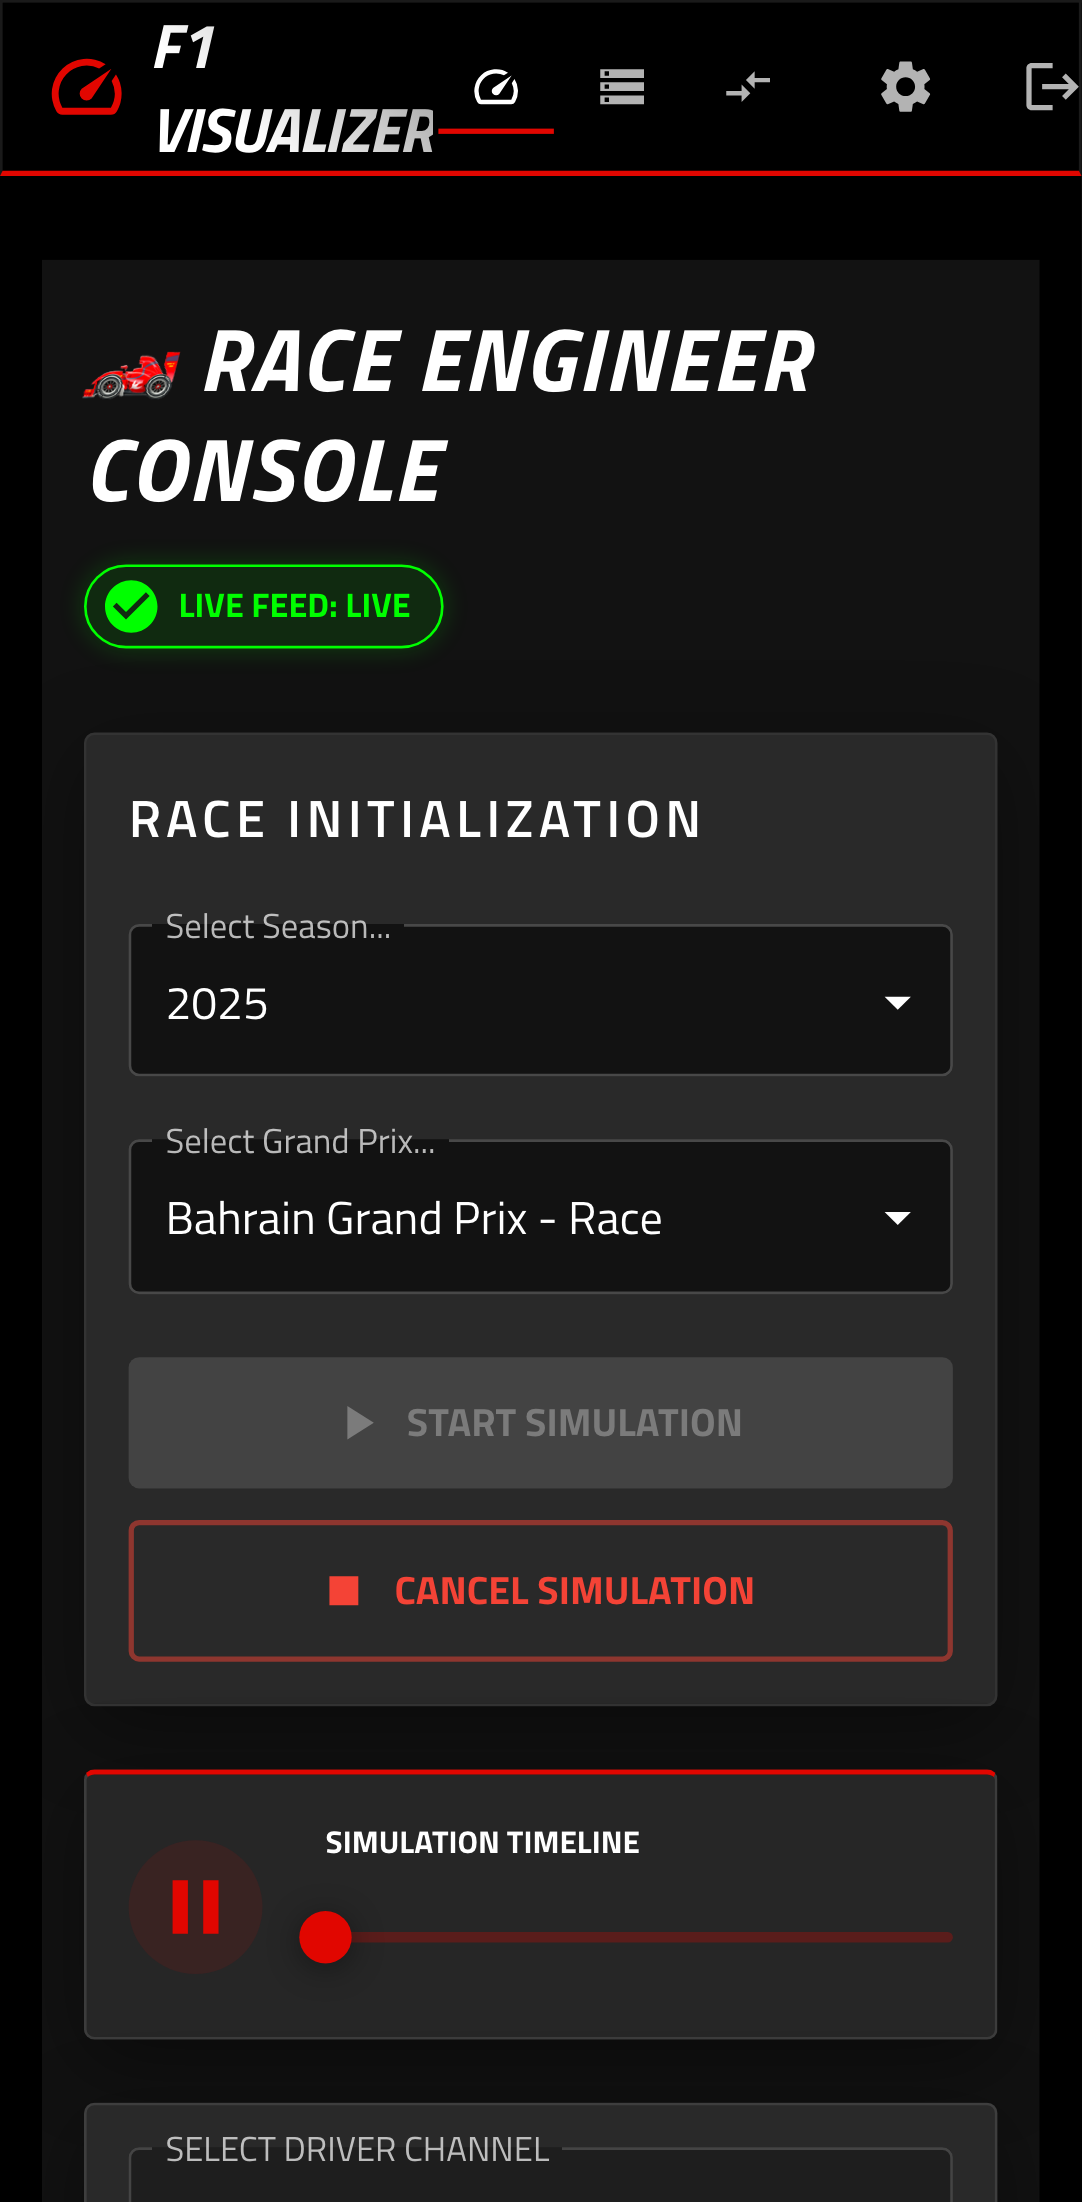
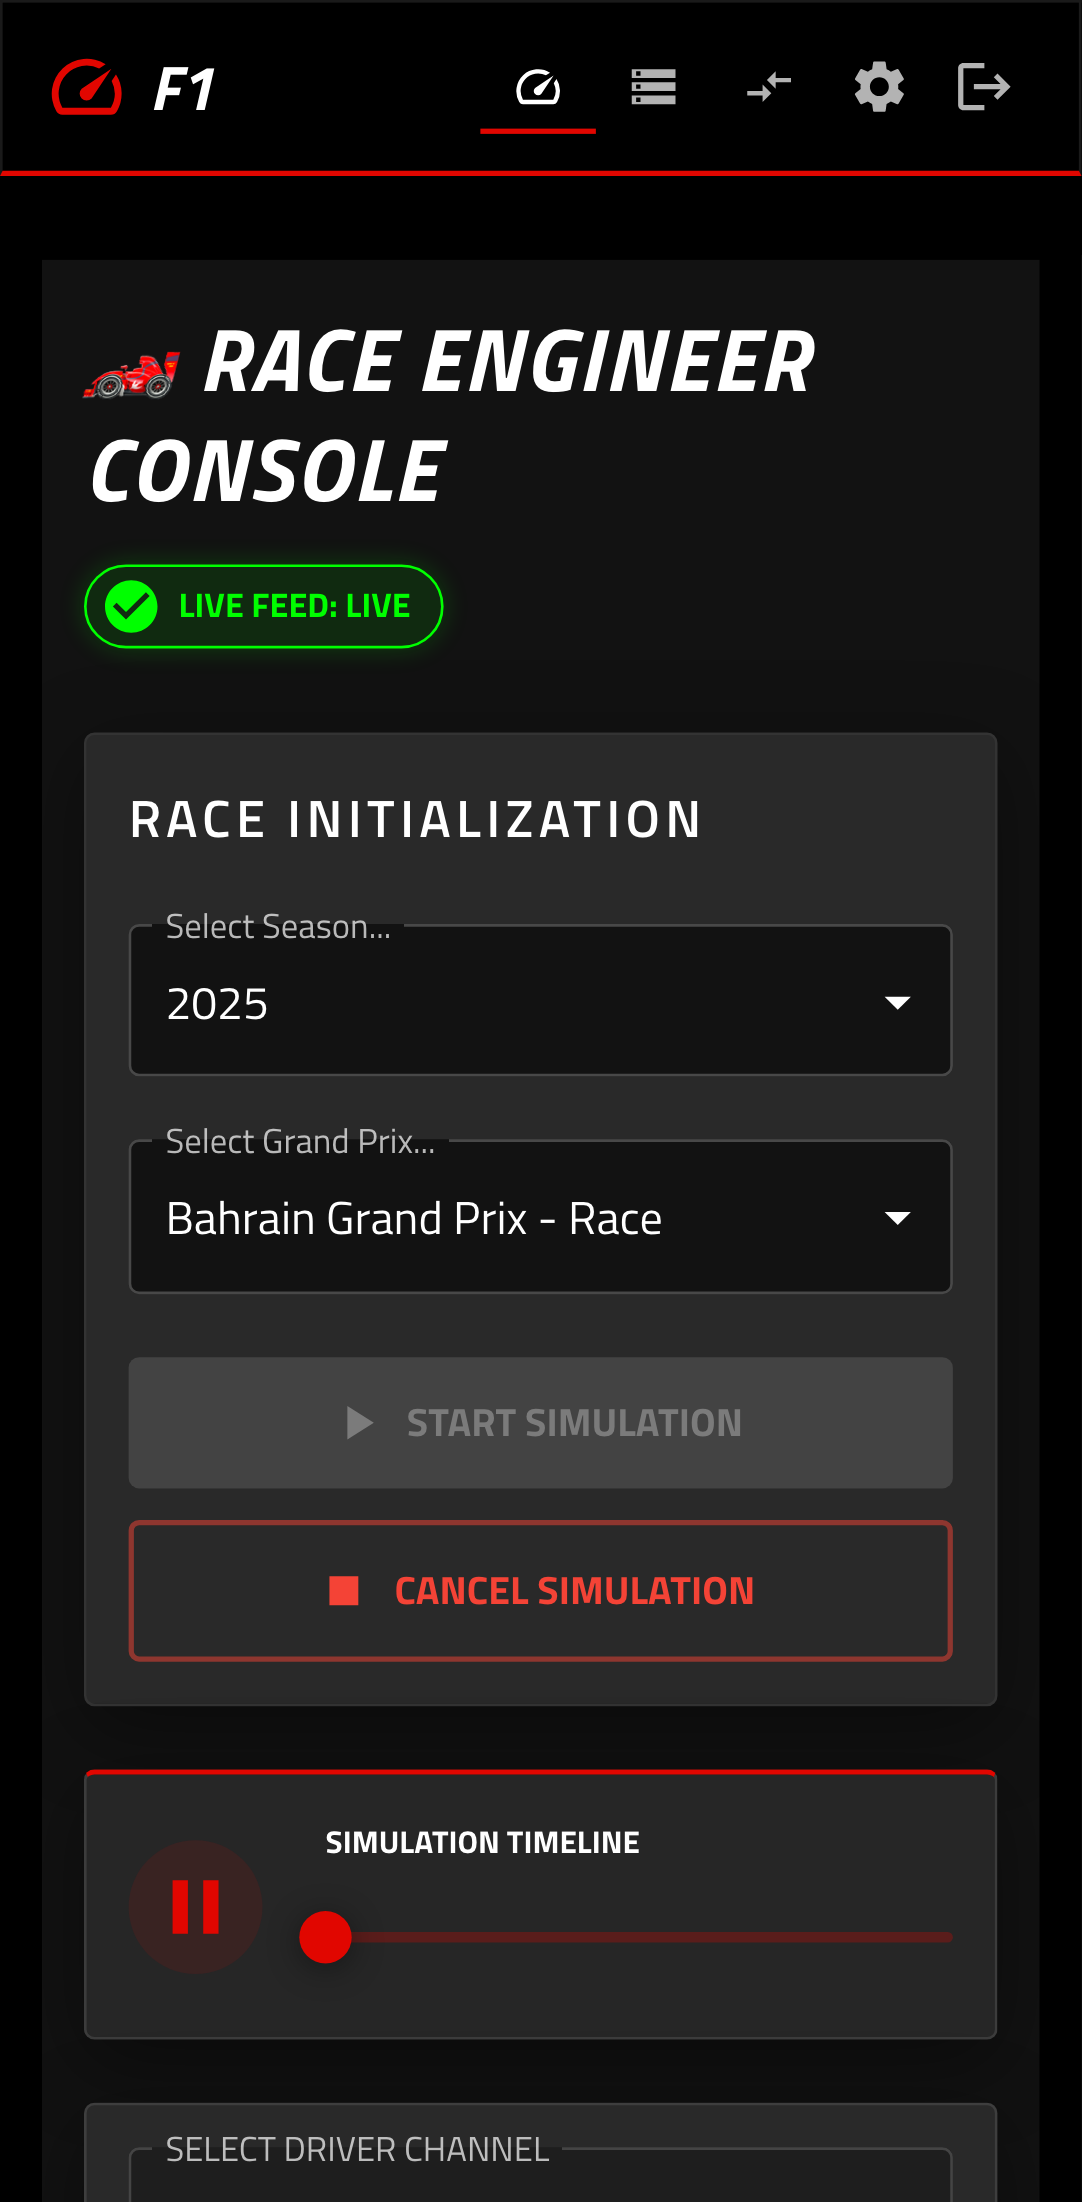
fix(frontend): keep the app bar on one line on phones
On a 412px Pixel 7 the bar holds the brand icon, three 44px nav targets
and two icon buttons with 16px margins, which left the wordmark 84px.
Its min-content width is the word VISUALIZER, so the flex item could not
shrink below that: F1 wrapped onto its own line above VISUALIZER, and the
toolbar still overflowed the container by about 85px, pushing the logout
button off the right edge. docs/screenshots/live-console-mobile.png
showed exactly that.

Below the sm breakpoint the brand is now the icon plus F1, with
VISUALIZER clipped away rather than removed - the pattern the nav labels
already used, now one helper for both - so assistive technology reads
F1 VISUALIZER at every width. The wordmark is nowrap so it can never
stack again, and below sm the nav and icon-button margins go to zero,
which is what makes the bar fit the 320px reflow width with the 44px
targets intact. From 600px up nothing changes.

Verified: the header at 320, 360, 375, 412, 599, 600, 900 and 1440px
through the e2e stubs - one line everywhere, no overflow, VISUALIZER
hidden below 600 and in flow from 600; lint, typecheck, the unit suite
and the e2e suite on both projects green, including axe on the
authenticated shell at the Pixel 7 viewport. The mobile screenshot is
recaptured with yarn screenshots.

diff --git a/frontend/src/components/layout/LayoutMain.tsx b/frontend/src/components/layout/LayoutMain.tsx
@@ -22,6 +22,25 @@ import { BRAND_RED } from '../../theme/tokens';
 import ErrorBoundary from '../ErrorBoundary';
 import RouteFallback from '../ui/RouteFallback';
 import UserSettingsModal from './UserSettingsModal';
+import type { Breakpoint, SxProps, Theme } from '@mui/material';
+
+/**
+ * Visually hidden below `from`, in flow at and above it.
+ *
+ * One element, hidden visually rather than removed, so the text is in the DOM
+ * and read by assistive technology at every width — rendering it twice, once
+ * per breakpoint, would have put two copies in the accessibility tree. Nowrap
+ * throughout: a 1px box must not reflow its text into a stack of lines, and
+ * nothing this wraps — a nav label, half of the wordmark — may wrap once shown.
+ */
+const visuallyHiddenBelow = (from: Breakpoint): SxProps<Theme> => ({
+    position: { xs: 'absolute', [from]: 'static' },
+    width: { xs: '1px', [from]: 'auto' },
+    height: { xs: '1px', [from]: 'auto' },
+    overflow: { xs: 'hidden', [from]: 'visible' },
+    clipPath: { xs: 'inset(50%)', [from]: 'none' },
+    whiteSpace: 'nowrap',
+});
 
 const LayoutMain: React.FC = () => {
     const location = useLocation();
@@ -89,11 +108,18 @@ const LayoutMain: React.FC = () => {
                 <Container maxWidth="xl">
                     <Toolbar disableGutters sx={{ height: 64 }}>
                         <SpeedIcon sx={{ mr: 1, color: 'primary.main', fontSize: 32 }} />
+                        {/* The bar has to hold the brand, three 44px nav targets
+                            and two icon buttons; on a 412px phone that left the
+                            wordmark 84px, so it wrapped "F1" above "VISUALIZER"
+                            and still pushed the logout button off the right edge.
+                            Below sm the brand is the icon plus "F1"; nowrap so it
+                            can never stack again. */}
                         <Typography
                             variant="h5"
                             component="div"
                             sx={{
                                 flexGrow: 1,
+                                whiteSpace: 'nowrap',
                                 fontWeight: 900,
                                 fontStyle: 'italic',
                                 letterSpacing: '-0.02em',
@@ -102,7 +128,11 @@ const LayoutMain: React.FC = () => {
                                 WebkitTextFillColor: 'transparent',
                             }}
                         >
-                            F1 VISUALIZER
+                            F1
+                            <Box component="span" sx={visuallyHiddenBelow('sm')}>
+                                {' '}
+                                VISUALIZER
+                            </Box>
                         </Typography>
 
                         {/* The links lived in generic elements, so there was no
@@ -136,7 +166,7 @@ const LayoutMain: React.FC = () => {
                                 onClick={() => setIsSettingsOpen(true)}
                                 aria-label="User preferences"
                                 sx={{
-                                    ml: 2,
+                                    ml: { xs: 0, sm: 2 },
                                     color: 'text.secondary',
                                     '&:hover': { color: 'primary.main' },
                                 }}
@@ -150,7 +180,7 @@ const LayoutMain: React.FC = () => {
                                 onClick={handleLogout}
                                 aria-label="Log out"
                                 sx={{
-                                    ml: 2,
+                                    ml: { xs: 0, sm: 2 },
                                     color: 'text.secondary',
                                     '&:hover': { color: 'error.main' },
                                 }}
@@ -239,7 +269,9 @@ const NavButton = ({
             aria-current={isActive ? 'page' : undefined}
             startIcon={icon}
             sx={{
-                mx: { xs: 0.25, md: 1 },
+                // No gaps at all below sm: with the two icon buttons also flush,
+                // the bar fits the 320px reflow width with 44px targets intact.
+                mx: { xs: 0, sm: 0.25, md: 1 },
                 minWidth: { xs: 44, md: 64 },
                 '& .MuiButton-startIcon': { mr: { xs: 0, md: 1 }, ml: 0 },
                 color: isActive ? 'white' : 'text.secondary',
@@ -252,22 +284,9 @@ const NavButton = ({
             }}
         >
             {/* Icon-only below md: three labelled buttons plus the brand and two
-                icon buttons overflowed a 375px bar.
-
-                One element, hidden visually rather than removed, so the button
-                keeps the same accessible name at every width — rendering the
-                label twice would have put two copies in the DOM. */}
-            <Box
-                component="span"
-                sx={{
-                    position: { xs: 'absolute', md: 'static' },
-                    width: { xs: '1px', md: 'auto' },
-                    height: { xs: '1px', md: 'auto' },
-                    overflow: { xs: 'hidden', md: 'visible' },
-                    clipPath: { xs: 'inset(50%)', md: 'none' },
-                    whiteSpace: { xs: 'nowrap', md: 'normal' },
-                }}
-            >
+                icon buttons overflowed a 375px bar. Hidden, not removed, so the
+                button keeps the same accessible name at every width. */}
+            <Box component="span" sx={visuallyHiddenBelow('md')}>
                 {label}
             </Box>
             {isActive && (

diff --git a/frontend/src/components/__tests__/LayoutMain.test.tsx b/frontend/src/components/__tests__/LayoutMain.test.tsx
@@ -67,7 +67,9 @@ describe('LayoutMain', () => {
             </MemoryRouter>,
         );
 
-        expect(screen.getByText('F1 VISUALIZER')).toBeInTheDocument();
+        // "VISUALIZER" is a separate span, clipped away below the sm breakpoint,
+        // so the title is one string only as the banner's text content.
+        expect(screen.getByRole('banner')).toHaveTextContent('F1 VISUALIZER');
     });
 
     it('renders the mocked UserSettingsModal', () => {
